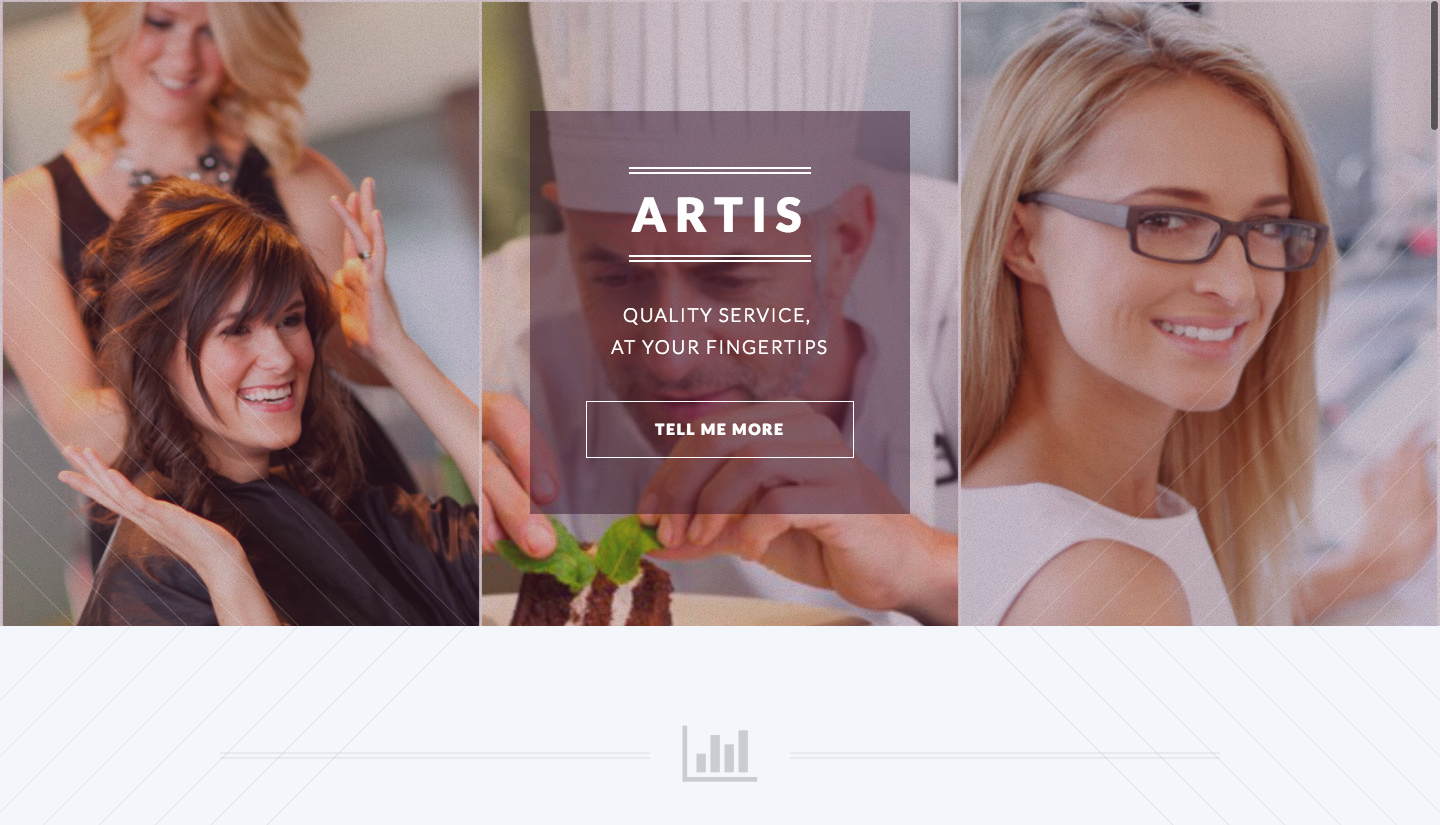
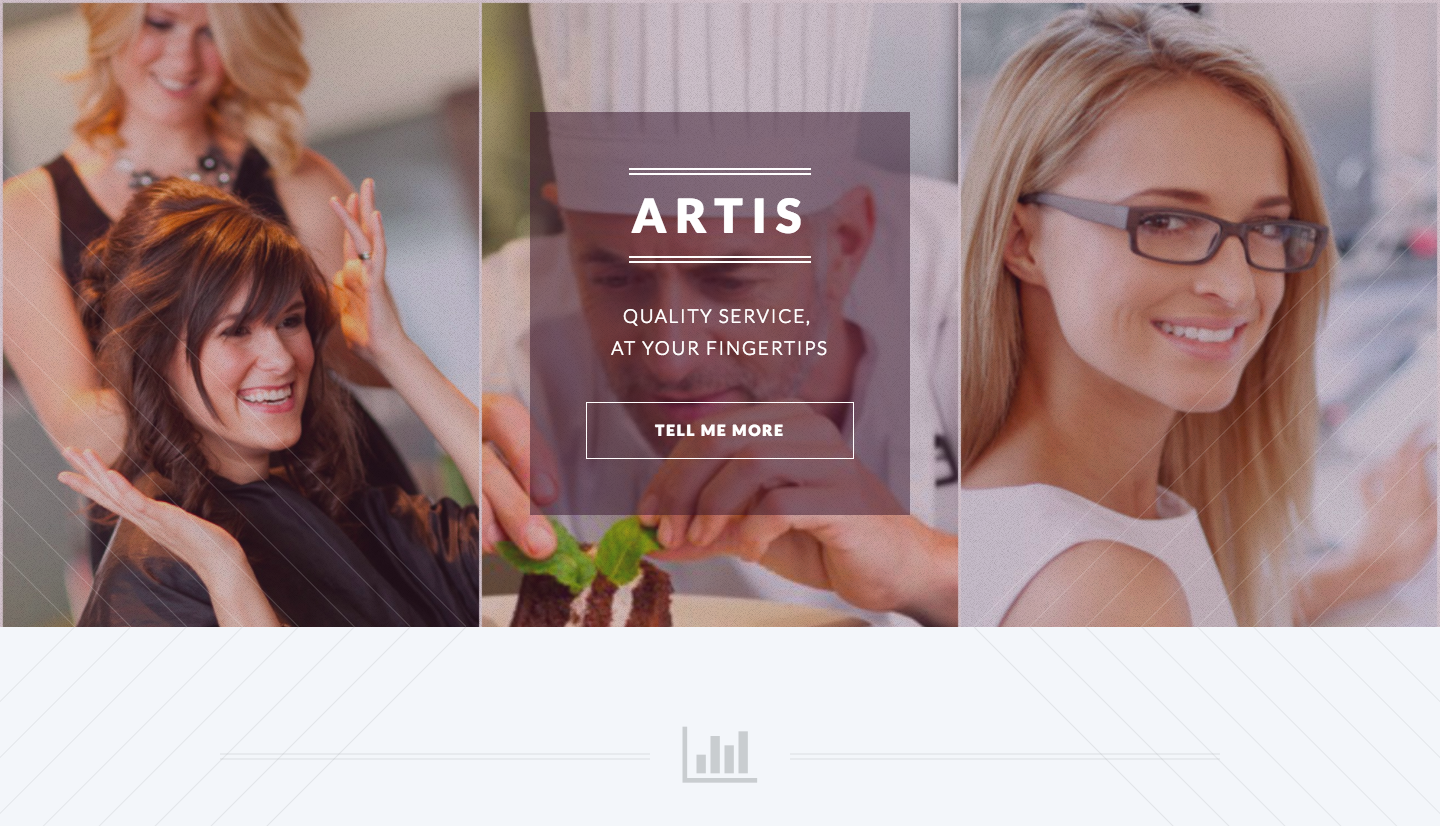
change spacing

diff --git a/index.html b/index.html
@@ -34,11 +34,11 @@
 						<div class="4u 12u(mobile)">
 							<span class="image fit"><img src="images/avatar.jpg" alt="" /></span>
 						</div>
-						<div class="8u 12u(mobile)">
+						<div class="12u(mobile)">
 							<header>
 								<h1>Hello World!</h1>
 							</header>
-							<p>My name is <strong>Nixon</strong>, I design and build web applications. </p>
+							<p>My name is <strong>Nixon</strong>. I design and build web applications. </p>
 						</div>
 					</div>
 				</article>
@@ -57,7 +57,7 @@
 				<article id="work">
 					<header>
 						<h2>My Expertise</h2>
-						<p>Building a web application from start to finish.</p>
+						<p>Building web applications from start to finish.</p>
 					</header>
 					<div class="container">
 						<div class="row">
@@ -67,7 +67,7 @@
 									<h3>User Interface</h3>
 									<p>Less is more.
 										When designing website wireframes, 
-										I focus on a simplicity and consistency 
+										I focus on simplicity and consistency 
 										for an intuitive UI.</p>
 								</section>
 							</div>
@@ -170,7 +170,7 @@
 			<div class="wrapper style4">
 				<article id="contact" class="container 75%">
 					<header>
-						<h2>Contact</h2>
+						<h3>Contact</h3>
 					</header>
 					<div>
 						<div class="row">

diff --git a/assets/css/main.css b/assets/css/main.css
@@ -330,6 +330,7 @@
 		width: 50%;
 		clear: none;
 		margin-left: 0;
+		margin-bottom: 1em;
 	}
 
 	.\35 u, .\35 u\24 {
@@ -424,7 +425,7 @@
 	@media screen and (min-width: 737px) {
 
 		.row > * {
-			padding: 25px 0 0 25px;
+			padding: 0px 0 0 25px;
 		}
 
 		.row {
@@ -639,7 +640,7 @@
 	@media screen and (min-width: 737px) and (max-width: 1200px) {
 
 		.row > * {
-			padding: 25px 0 0 25px;
+			padding: 0px 0 0 25px;
 		}
 
 		.row {
@@ -1824,7 +1825,7 @@
 		/* Wrappers */
 
 			.wrapper {
-				padding: 8em 0 8em 0;
+				padding: 3em 0 3em 0;
 				text-align: center;
 			}
 
@@ -1925,7 +1926,7 @@
 		/* Wrappers */
 
 			.wrapper {
-				padding: 5em 0 5em 0;
+				padding: 3em 0 3em 0;
 				text-align: center;
 			}
 
@@ -2123,4 +2124,5 @@
 	.intro {
 		display: flex;
 		align-items: center;
+		justify-content: center;
 	}
